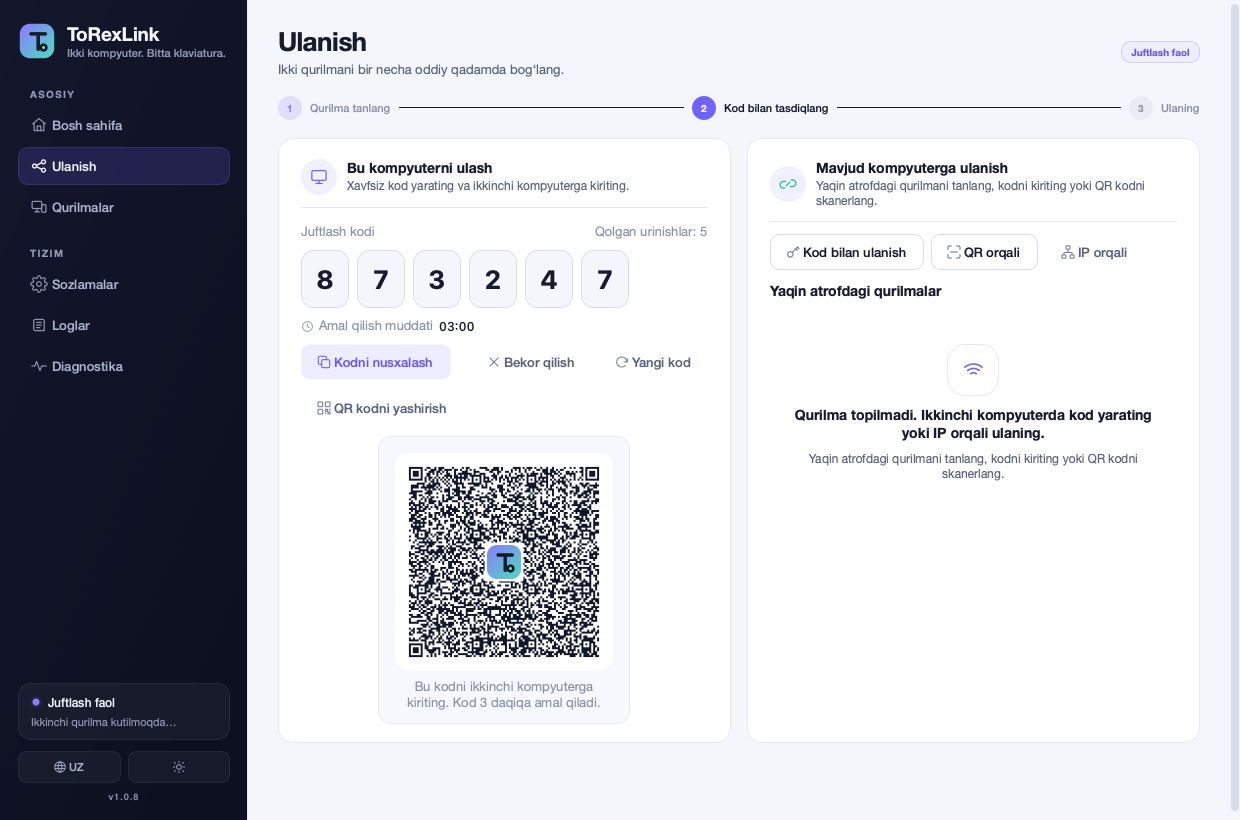
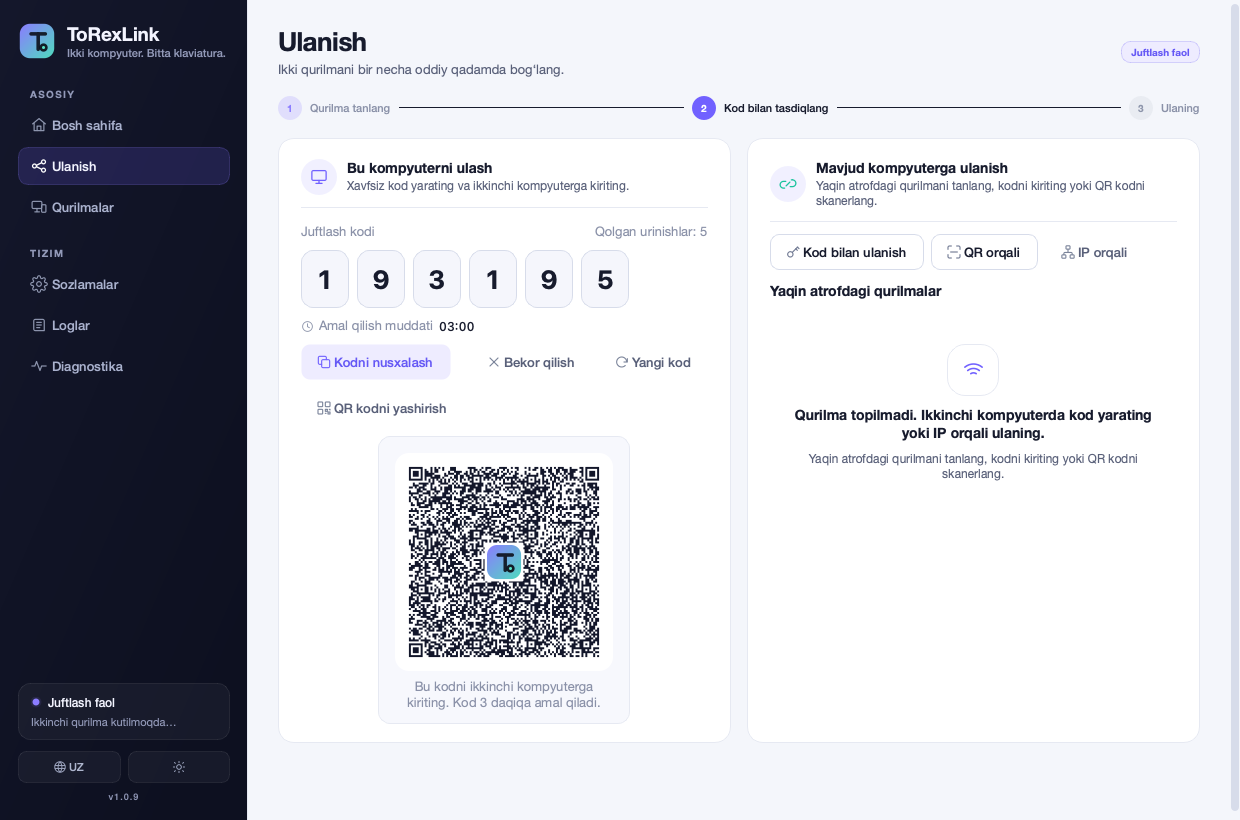
fix: force-hide controller cursor and harden edge return

Changed region(s): [[0.3065, 0.5488, 0.4903, 0.8232], [0.429, 0.3354, 0.4903, 0.3659], [0.2452, 0.3354, 0.2758, 0.3659]]

diff --git a/tests/test_service_integration.py b/tests/test_service_integration.py
@@ -329,10 +329,10 @@ async def test_edge_return_disarms_until_pointer_moves_inward(service_factory) -
         # 2. Remote cursor moves inward, arming the return gesture, then exits
         #    through the same edge and returns focus to the guest.
         guest_backend.emit(InputMoveEvent(dx=0.05, dy=0.0, x=900, y=540))
-        await wait_for(lambda: host_backend.cursor[0] >= 40, timeout=3)
+        await wait_for(lambda: host_backend.cursor[0] >= 60, timeout=3)
         # The target deliberately ignores edge returns during the first
         # settle window, so let it expire before testing return.
-        await asyncio.sleep(0.4)
+        await asyncio.sleep(0.7)
         # Reaching the edge is not enough: this event is injected but must not
         # hand focus back by itself.
         guest_backend.emit(InputMoveEvent(dx=-0.12, dy=0.0, x=900, y=540))
@@ -342,8 +342,13 @@ async def test_edge_return_disarms_until_pointer_moves_inward(service_factory) -
         assert guest_focus is not None
         assert guest_focus.local_controller is True
         assert guest_focus.local_target is False
-        # A deliberate additional outward push (57.6 px) returns to the Mac.
-        guest_backend.emit(InputMoveEvent(dx=-0.03, dy=0.0, x=900, y=540))
+        # A deliberate additional outward push returns to the Mac; a small
+        # oscillation is not enough after the 72 px threshold.
+        guest_backend.emit(InputMoveEvent(dx=-0.02, dy=0.0, x=900, y=540))
+        await asyncio.sleep(0.15)
+        assert guest.snapshot().focus is not None
+        assert guest.snapshot().focus.local_target is False
+        guest_backend.emit(InputMoveEvent(dx=-0.06, dy=0.0, x=900, y=540))
         await wait_for(
             lambda: guest.snapshot().focus is not None
             and guest.snapshot().focus.local_target

diff --git a/torexlink/input/macos.py b/torexlink/input/macos.py
@@ -748,6 +748,21 @@ class MacOSInputBackend:
                 self._cursor_hide_depth = max(1, self._cursor_hide_depth + 1)
                 self._cursor_hidden = True
 
+    def force_cursor_hidden(self) -> None:
+        """Hide even when the tracked state says the cursor is already hidden.
+
+        CGWarpMouseCursorPosition (used when entering forwarding) can make
+        macOS draw the cursor again without changing our hide count. Re-hiding
+        immediately after the warp keeps the controller visibly cursor-free.
+        """
+        with self._lock:
+            error = Quartz.CGDisplayHideCursor(Quartz.CGMainDisplayID())
+            if error:
+                log.warning("CGDisplayHideCursor failed with CGError %s", error)
+                return
+            self._cursor_hide_depth = max(1, self._cursor_hide_depth + 1)
+            self._cursor_hidden = True
+
     def ensure_cursor_hidden(self) -> None:
         """Re-hide if macOS or another app made the cursor visible again."""
         if not self._cursor_hidden:

diff --git a/torexlink/input/bridge.py b/torexlink/input/bridge.py
@@ -144,6 +144,14 @@ class InputBridge:
                     self._saved_pointer = self.backend.pointer_position()
                     self.backend.release_local_modifiers()
                     self.backend.warp_pointer(*self._saved_pointer)
+                    # Warping can make macOS draw the cursor again. Force a
+                    # hide after the warp even if our state already said it was
+                    # hidden, otherwise a stationary duplicate stays visible at
+                    # the edge while the peer cursor moves.
+                    force_hidden = getattr(self.backend, "force_cursor_hidden", None)
+                    if force_hidden is not None:
+                        with contextlib.suppress(Exception):
+                            force_hidden()
                 self._set_pointer_frozen(True)
                 self._set_cursor_visible(False)
             elif is_receiving:

diff --git a/torexlink/constants.py b/torexlink/constants.py
@@ -7,7 +7,7 @@ Never change them without a protocol/format migration.
 from __future__ import annotations
 
 APP_NAME = "ToRexLink"
-APP_VERSION = "1.0.8"
+APP_VERSION = "1.0.9"
 APP_BUNDLE_ID = "uz.torexlink.app"
 PROTOCOL_VERSION = 1
 
@@ -46,9 +46,9 @@ INPUT_MOVE_SEND_INTERVAL = 0.004
 INPUT_QUEUE_MAX = 2048
 SCREEN_EDGE_MARGIN_PX = 2
 EDGE_REARM_MARGIN_PX = 56
-REMOTE_RETURN_REARM_MARGIN_PX = 40
-REMOTE_RETURN_PUSH_PX = 36.0
-REMOTE_RETURN_SETTLE_SECONDS = 0.35
+REMOTE_RETURN_REARM_MARGIN_PX = 60
+REMOTE_RETURN_PUSH_PX = 72.0
+REMOTE_RETURN_SETTLE_SECONDS = 0.6
 EVENT_COOLDOWN_SECONDS = 0.35
 
 # Focus arbitration

diff --git a/CHANGELOG.md b/CHANGELOG.md
@@ -4,6 +4,24 @@ Barcha muhim o‘zgarishlar shu faylda qayd etiladi. Format
 [Keep a Changelog](https://keepachangelog.com/)ga asoslangan; versiyalar
 Semantic Versioning’ga ergashadi.
 
+## [1.0.9] — 2026-10-21
+
+### Fixed
+
+- Controller Mac’da kursor warp’dan keyin qayta ko‘rinib qolishi mumkin edi;
+  endi forwarding’ga kirishda warp’dan so‘ng **majburiy hide** qilinadi.
+  Natijada birinchi kompyuterda statsionar ikkinchi kursor qolmaydi.
+- Windows target’da edge-return juda oson trigger bo‘lib, focusni qaytarib
+  yuborardi. Settle **0.6 s**, push **72 px**, rearm **60 px** qilindi —
+  tasodifiy harakat endi qaytarmaydi, ataylab chetga bosish ishlaydi.
+- Controller kursorining mantiqiy pozitsiyasi chiqish chetida saqlanadi;
+  qaytishda o‘sha joydan davom etadi.
+
+### Compatibility
+
+- 1.0.9 ikkala qurilmada ham tavsiya etiladi; keyboard-follow va raqamli
+  tugmalar uchun 1.0.8+ majburiy.
+
 ## [1.0.8] — 2026-10-20
 
 ### Fixed

diff --git a/docs/TESTING.md b/docs/TESTING.md
@@ -54,7 +54,7 @@ Joriy natija (macOS 27, arm64):
 ### Tayyorgarlik
 
 - Bir xil LAN, client isolation o‘chirilgan.
-- Ikkala qurilmada ToRexLink 1.0.8.
+- Ikkala qurilmada ToRexLink 1.0.9.
 - Windows firewall ruxsati berilgan.
 - macOS ruxsatlari berilgan va ilova qayta ochilgan.
 
